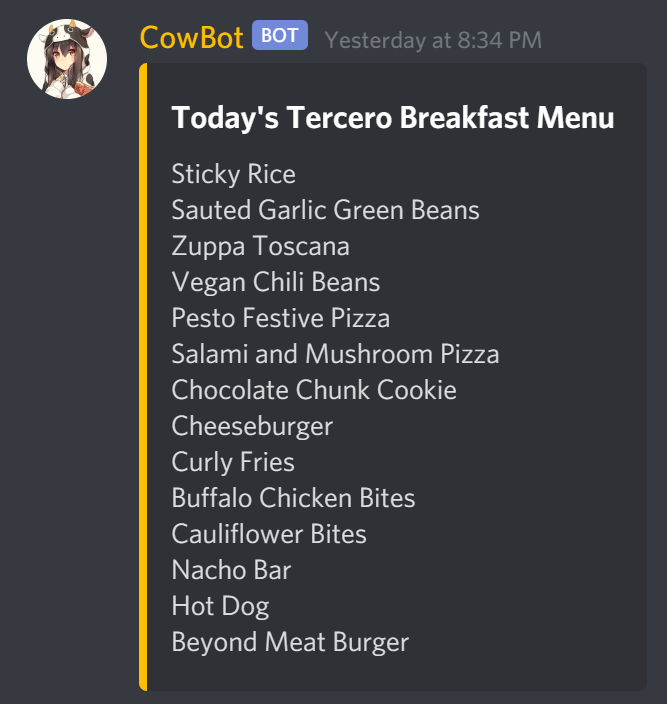
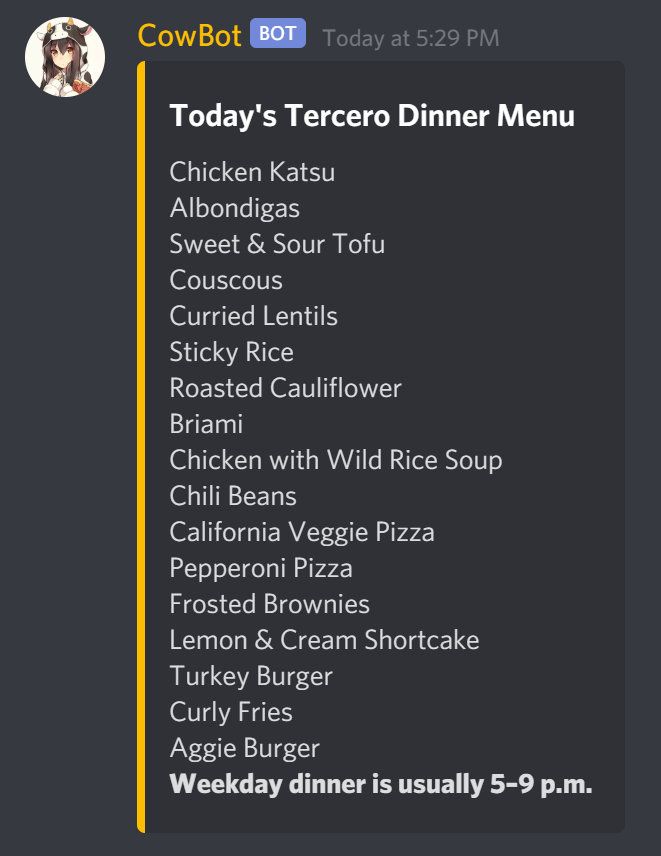
Update menu image and add thanks page

Changed region(s): [[0.2118, 0.0, 0.938, 0.9375], [0.0303, 0.0, 0.1815, 0.1562]]

diff --git a/cowbot/thanks/index.html b/cowbot/thanks/index.html
@@ -1,0 +1,53 @@
+<!DOCTYPE html>
+<html>
+<head>
+
+    <meta content="Ashley Bilbrey" property="og:title">
+    <meta content="CowBot - Thanks" property="og:description">
+    <meta name="theme-color" content="#A723BB">
+
+    <link href="https://fonts.googleapis.com/css?family=Fira+Sans" rel="stylesheet">
+    <title>Ashley Bilbrey - CowBot - Thanks</title>
+</head>
+<body>
+    <div id="text">
+        <h1>Thank you for adding CowBot!</h1>
+        <h2><a href="http://ashleybilbrey.com">Visit my website!</a></h2>
+    </div>
+</body>
+
+<style>
+    #text {
+        font-family: "Fira Sans", "Fira", sans-serif;
+        width: 70vw;
+        transform: translateX(15vw);
+        margin-top: 45vh;
+        text-align: center;
+        color: white;
+        animation: rainbow 5s linear infinite;
+    }
+
+    a {
+        animation: rainbow 5s linear infinite;
+    }
+
+    img {
+        max-width: 50vw;
+        align: center;
+    }
+
+    body {
+        background-color: #36393f;
+    }
+
+    @keyframes rainbow {
+        0% {color: red;}
+        17% {color: orange;}
+        34% {color: yellow;}
+        51% {color: lime;}
+        68% {color: aqua;}
+        85% {color: magenta;}
+        100% {color: red;}
+    }
+</style>
+</html>
